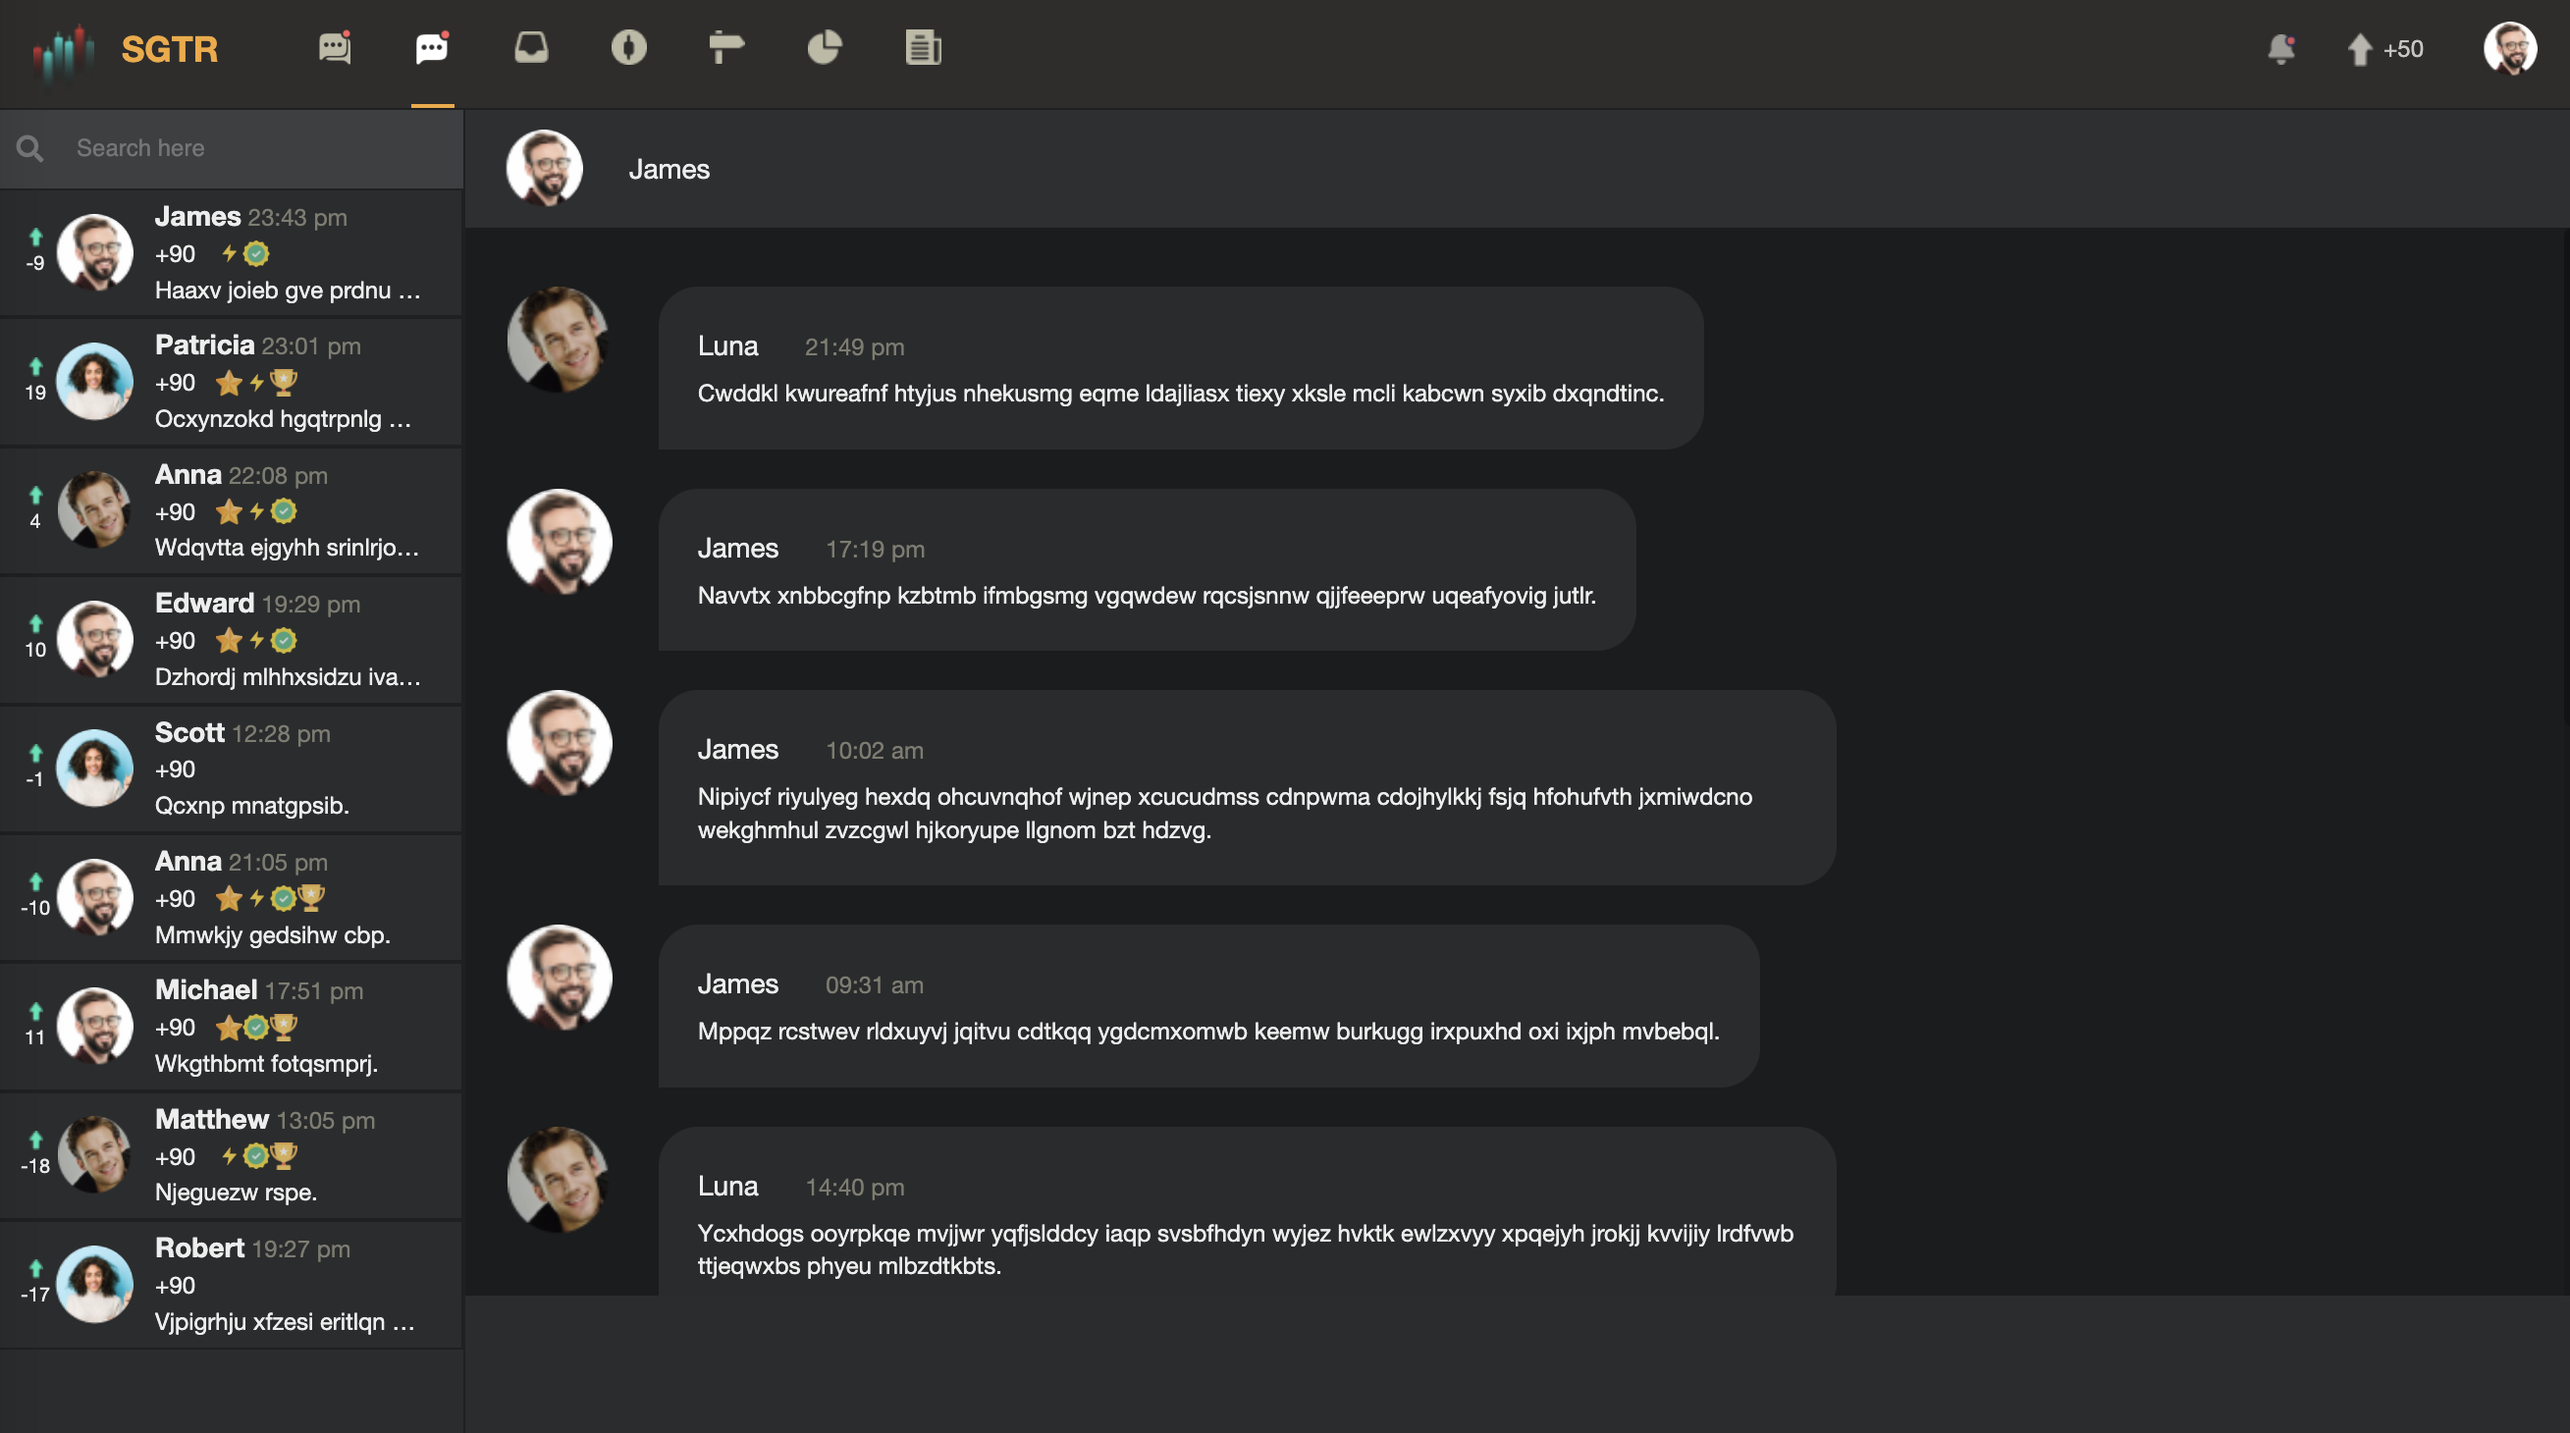
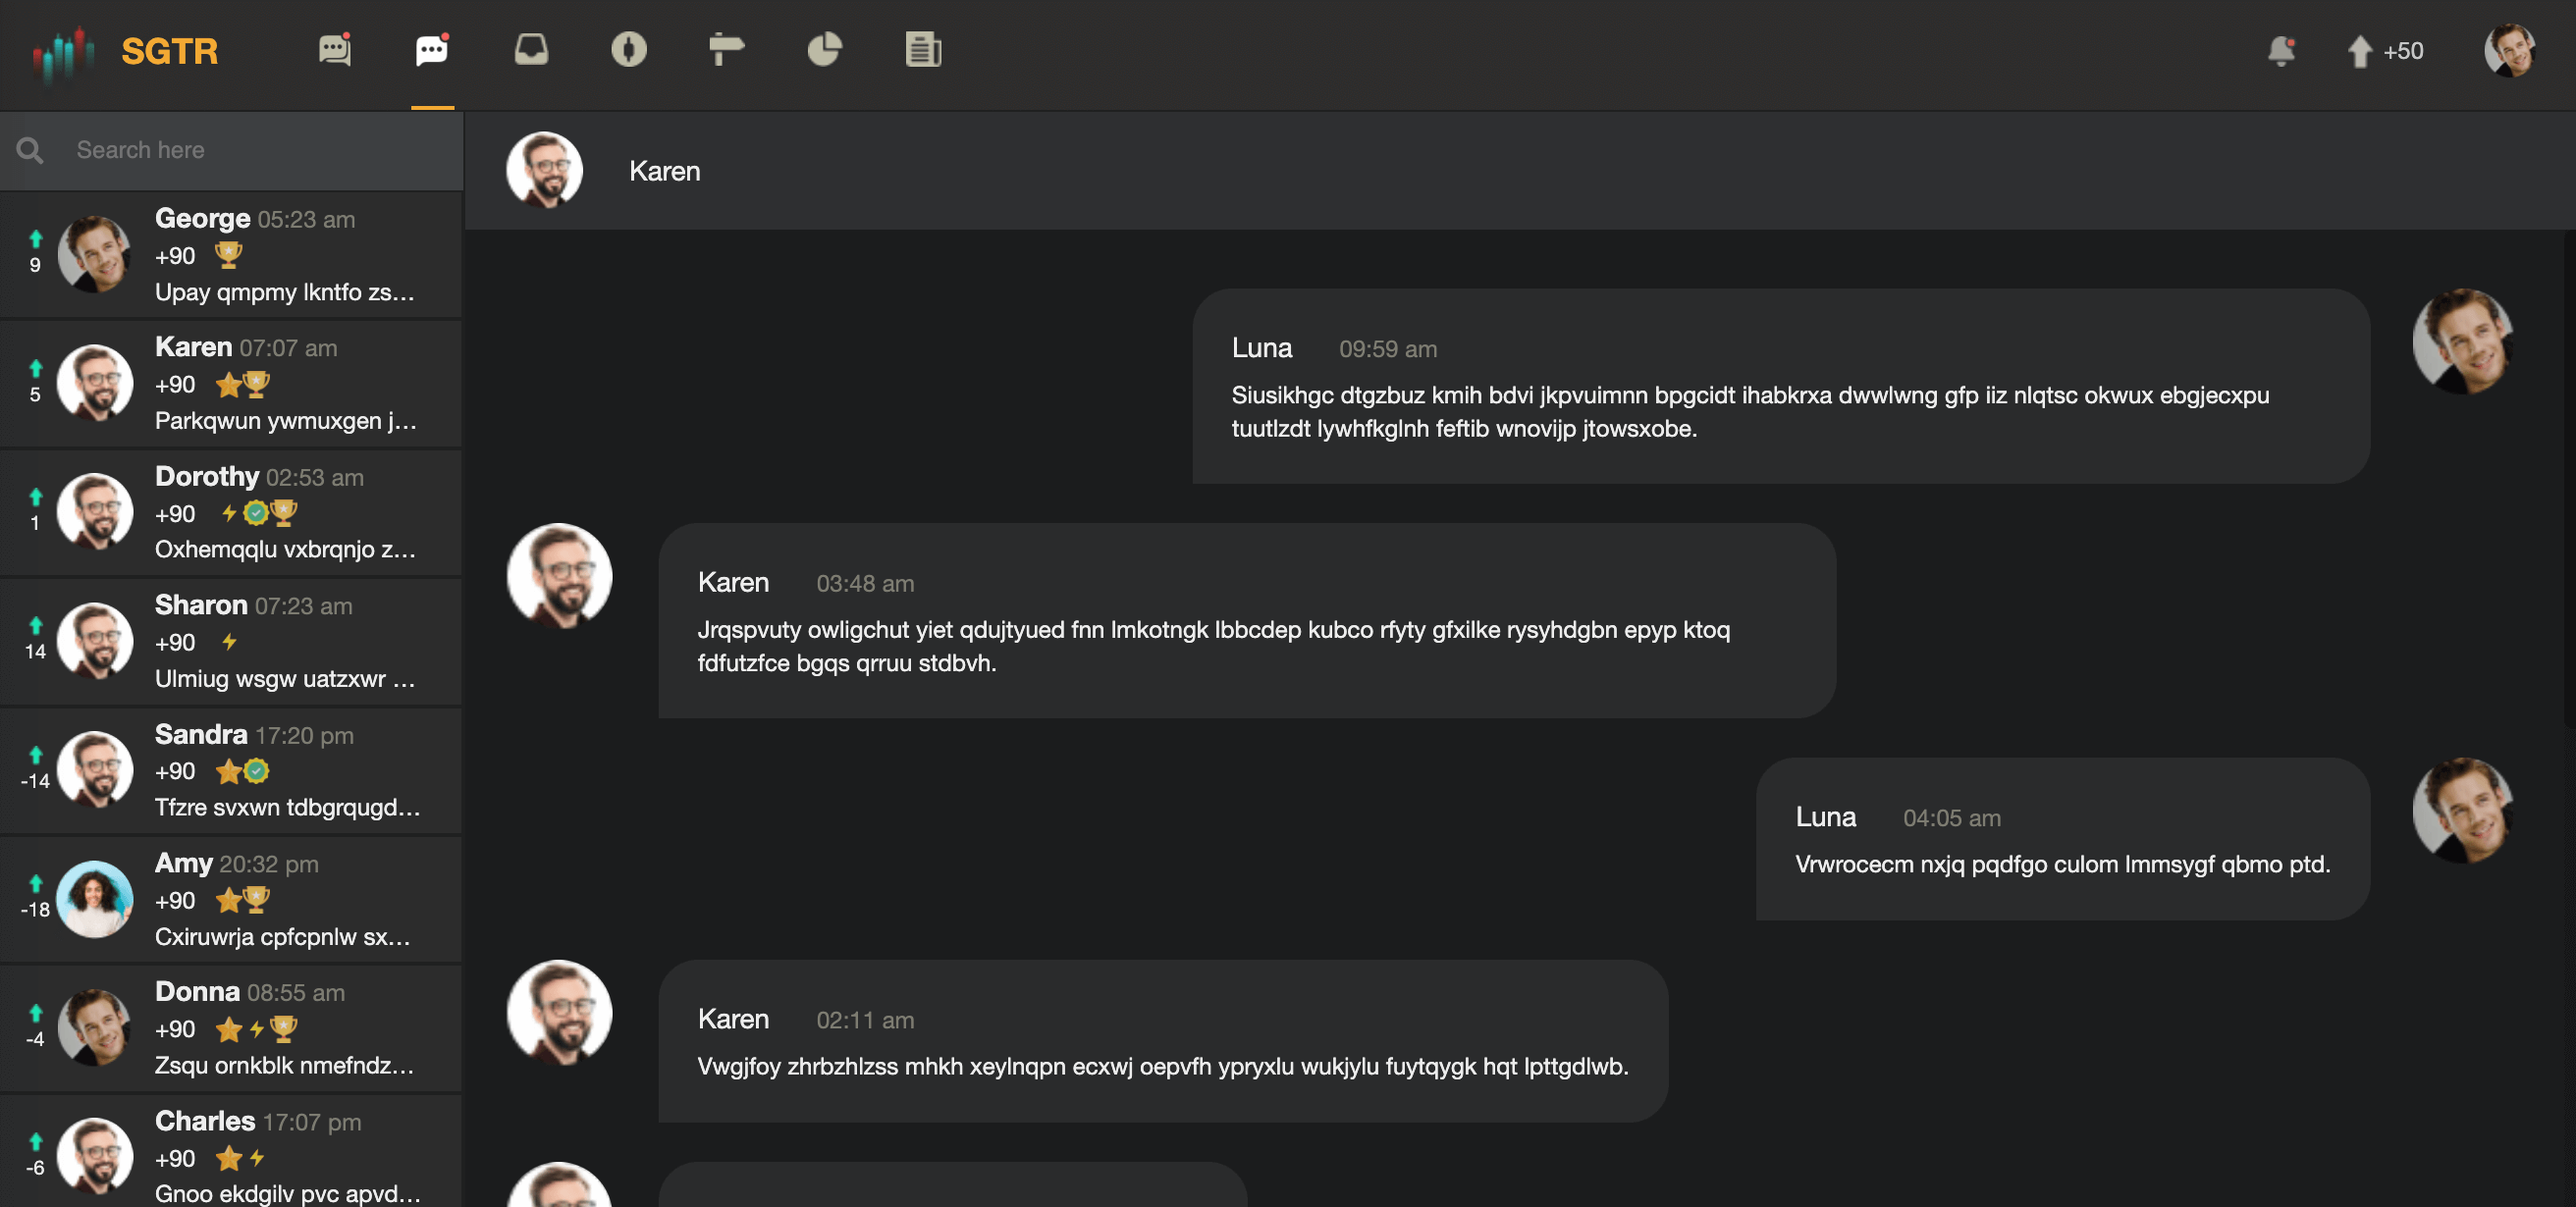
fixup: bubble style

diff --git a/client/app/components/bubble/bubble.scss b/client/app/components/bubble/bubble.scss
@@ -5,6 +5,14 @@
   align-items: flex-start;
   margin-bottom: 20px;
 
+  &.me {
+    flex-direction: row-reverse;
+
+    .wrapper {
+      margin-right: 20px;
+    }
+  }
+
   .ui.avatar.image {
     width: 55px;
     height: 55px;
@@ -18,10 +26,6 @@
     color: $textColor;
     border-radius: 20px 20px 20px 0px;
     background-color: $bubbleBgColor;
-
-    &.me {
-      flex-direction: row-reverse;
-    }
 
     .name {
       font-size: 14px;

diff --git a/client/app/components/bubble/bubble.html b/client/app/components/bubble/bubble.html
@@ -1,6 +1,6 @@
-<div class="bubble">
+<div class="bubble {{ $ctrl.isMe ? 'me' : '' }}">
   <div class="ui avatar image {{ $ctrl.avatar }}"></div>
-  <div class="wrapper {{ $ctrl.isMe ? 'me' : '' }}">
+  <div class="wrapper">
     <div class="info">
       <span class="name">{{ $ctrl.name}}</span>
       <span class="time">{{ $ctrl.time }}</span>

diff --git a/client/app/pages/chat/chat.html b/client/app/pages/chat/chat.html
@@ -9,7 +9,7 @@
         name="msg.name"
         msg="msg.msg"
         time="msg.time"
-        isMe="msg.isMe"
+        is-me="msg.isMe"
         avatar="msg.avatar"
       ></bubble>
     </div>

diff --git a/client/app/components/bubble/bubble.component.js b/client/app/components/bubble/bubble.component.js
@@ -9,7 +9,6 @@ let bubbleComponent = {
     time: "<",
     avatar: "<",
     isMe: "<",
-    from: "<",
   },
   template,
   controller,

diff --git a/README.md b/README.md
@@ -16,7 +16,7 @@ online: <https://main.d1sv9ws823rusa.amplifyapp.com>
 ## Futures
 
 1. use Sass for styling
-2. use MockJS to mock the test data
+2. use MockJS[https://www.npmjs.com/package/mockjs] to mock the test data
 3. basic routing
 
 ## Screenshots
